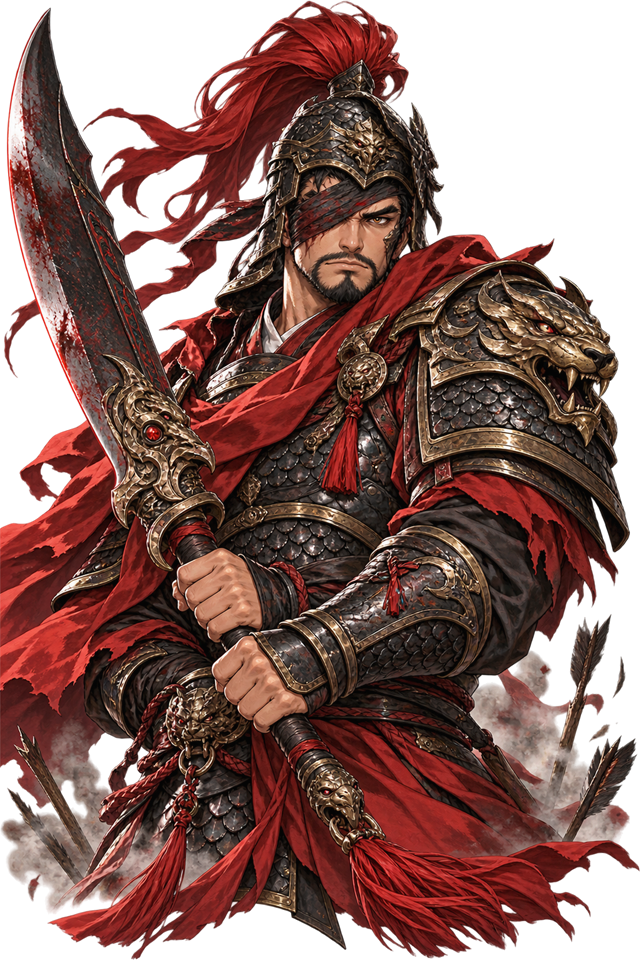
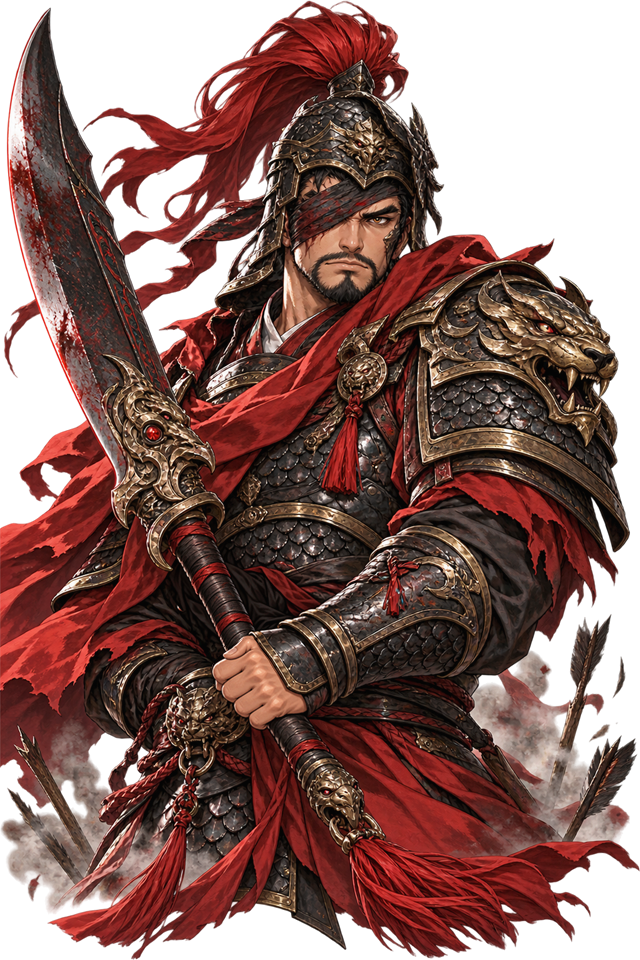
封神·入魔换上图标；夏侯惇立绘改成单手握刀（玩家反映画了两只左手）（TapTap V-20261030）
- 22 个图标：封神、入魔各 9 级，两条线的徽记，魔血、神魂两种货币；九级每行用图标、等级写在右下角，徽记放在栏目标题旁和「9 级以后」那一行，货币图标放在数量前
- 没有图时印章按两条线分色（封神金、入魔血红偏紫），下一级的高亮框也跟着变色
- 拿到魔血、神魂的提示带货币图标
- 图标走第二批加载，开着封神·入魔页时下到了就换上
- 夏侯惇立绘只改了手的那一块，脸的裁切位置不变
- 美术提示词第二十四批（封神入魔图标、夏侯惇立绘重画）

Changed region(s): [[0.25, 0.5625, 0.5, 0.7812]]

diff --git a/art-prompts.html b/art-prompts.html
@@ -76,7 +76,7 @@ button:focus-visible, input:focus-visible { outline: 2px solid var(--gold); outl
 <div class="wrap">
   <header>
     <h1>布衣三国 · <em>美术提示词</em></h1>
-    <p class="lede">一共 389 张图：7 张武将立绘、3 张出身立绘、35 个图标、14 个战场小人，第二批 18 张（精英立绘和小人、随从、据点建筑、铁蒺藜），第三批 8 张（武将大招特写、吕布骑赤兔），第四批 39 张（黄巾之乱、官渡、赤壁的 6 位新武将和黄巾兵），第五批 11 张（白龙、青龙龙首，白龙驹，8 个新物品图标），第六批 9 种招式特效贴图（拼在一张图里），第七批 13 件神兵（拼在一张图里），第八批 12 张拼图（9 件军需装备各 9 个形态的图标、3 个出身各 9 种换装小人），第九批 4 张拼图（貂蝉、甄姬、孙尚香三位女将的立绘、小人、神兵、特写和 9 个图标），第十批 4 张拼图（冰火雷风四种属性的图标、属性箭、属性弹、命中爆光），第十二批 1 张赤兔马，第十三批 5 张拼图（董卓、大乔、小乔的立绘、小人、神兵、特写，9 个图标和乔府），第十四批 5 张拼图（马超、郭嘉的立绘、小人、神兵、特写，6 个图标和西凉营地），第十五批 6 张图（司马懿的立绘、小人、神兵、特写，冢中死士，4 个图标，幽冥属性特效，孤冢和疑冢），第十六批 4 张图（夏侯惇的立绘、小人、神兵、特写和 3 个图标），第十七批 5 张图（华佗的立绘、小人、神兵、特写，3 个图标，药庐和药鼎），第十八批 8 张图（魔吕布、魔貂蝉的立绘、小人、神兵，3 张组合大招特写，3 个图标，炼狱虎牢关），第十九批 38 张 TapTap 成就图标（37 条成就加 1 条白金，上传到 TapTap 成就后台），第二十批 17 张素材拼成 9 张图（神赵云、黄忠的立绘、小人、神赵云骑白马、两件神兵、两张特写，6 个图标，神赵云的龙首，枪魂冢），第二十三批 47 张素材拼成 11 张图（曹操的立绘、小人、特写、神兵、3 个图标；才女的出身立绘、小人、3 个图标、27 个装备图标、9 个换装小人）；另外第十一批是声音：7 首背景音乐和 187 句名将配音。每条提示词已经带上统一的画风设定，点「复制」就能直接发给 ChatGPT。画好的图按文件名放进 G 盘的 <code>G:\布衣三国\assets</code> 文件夹，游戏会自动换上，没画的继续用现在的占位图。</p>
+    <p class="lede">一共 411 张图：7 张武将立绘、3 张出身立绘、35 个图标、14 个战场小人，第二批 18 张（精英立绘和小人、随从、据点建筑、铁蒺藜），第三批 8 张（武将大招特写、吕布骑赤兔），第四批 39 张（黄巾之乱、官渡、赤壁的 6 位新武将和黄巾兵），第五批 11 张（白龙、青龙龙首，白龙驹，8 个新物品图标），第六批 9 种招式特效贴图（拼在一张图里），第七批 13 件神兵（拼在一张图里），第八批 12 张拼图（9 件军需装备各 9 个形态的图标、3 个出身各 9 种换装小人），第九批 4 张拼图（貂蝉、甄姬、孙尚香三位女将的立绘、小人、神兵、特写和 9 个图标），第十批 4 张拼图（冰火雷风四种属性的图标、属性箭、属性弹、命中爆光），第十二批 1 张赤兔马，第十三批 5 张拼图（董卓、大乔、小乔的立绘、小人、神兵、特写，9 个图标和乔府），第十四批 5 张拼图（马超、郭嘉的立绘、小人、神兵、特写，6 个图标和西凉营地），第十五批 6 张图（司马懿的立绘、小人、神兵、特写，冢中死士，4 个图标，幽冥属性特效，孤冢和疑冢），第十六批 4 张图（夏侯惇的立绘、小人、神兵、特写和 3 个图标），第十七批 5 张图（华佗的立绘、小人、神兵、特写，3 个图标，药庐和药鼎），第十八批 8 张图（魔吕布、魔貂蝉的立绘、小人、神兵，3 张组合大招特写，3 个图标，炼狱虎牢关），第十九批 38 张 TapTap 成就图标（37 条成就加 1 条白金，上传到 TapTap 成就后台），第二十批 17 张素材拼成 9 张图（神赵云、黄忠的立绘、小人、神赵云骑白马、两件神兵、两张特写，6 个图标，神赵云的龙首，枪魂冢），第二十三批 47 张素材拼成 11 张图（曹操的立绘、小人、特写、神兵、3 个图标；才女的出身立绘、小人、3 个图标、27 个装备图标、9 个换装小人），第二十四批 22 个图标拼成 3 张图（封神、入魔各 9 级的图标，两条线的徽记，魔血、神魂两种货币），另外重画 1 张夏侯惇立绘（两只手画成了左手）；另外第十一批是声音：7 首背景音乐和 187 句名将配音。每条提示词已经带上统一的画风设定，点「复制」就能直接发给 ChatGPT。画好的图按文件名放进 G 盘的 <code>G:\布衣三国\assets</code> 文件夹，游戏会自动换上，没画的继续用现在的占位图。</p>
     <div class="progress"><span>已完成 <span id="count">0 / 45</span></span><div class="bar"><i id="bar"></i></div></div>
   </header>
 
@@ -184,6 +184,27 @@ button:focus-visible, input:focus-visible { outline: 2px solid var(--gold); outl
           <button class="copy" data-lite="3">④ 图标图集：兵器 + 宝物</button>
           <button class="copy" data-lite="4">⑤ 图标图集：技能 + 宝物</button>
         </div>
+      </div>
+    </div>
+  </section>
+
+  <section>
+    <h2>第二十四批新增<span class="folder">封神 · 入魔图标 · 夏侯惇立绘重画</span></h2>
+    <p class="section-note">标题页「封神 · 入魔」页面用的图标。<b>封神</b>是借神力降魔：用魔将掉的<b>魔血</b>升级，只对魔将（魔吕布、魔貂蝉）生效，整套金白色的神光；<b>入魔</b>是借魔力弑神：用神将掉的<b>神魂</b>升级，只对神将（神赵云）生效，整套血红配黑紫的魔焰。两条线的词条一样，各 9 级，每级一个图标（3 × 3 拼图，和第八批军需装备同一种做法）；另外 4 个是两条线的徽记和魔血、神魂两种货币。共 22 个图标，拼成 3 张图。另外<b>重画夏侯惇的立绘</b>：玩家在评论里指出他握刀的两只手都画成了左手，只改两只手，其余保持原样。</p>
+    <div class="list">
+      <div class="anchor">
+        <h3>一次复制全部 3 张</h3>
+        <p>三张都是图标，底板和之前的图标完全一样。画好后打包发给 Claude，由 Claude 切开放进 <code>G:\布衣三国\assets\icons</code>。</p>
+        <button class="copy primary" id="copy-batch24">复制第二十四批 3 张</button>
+      </div>
+      <div class="anchor">
+        <h3>也可以一张一张复制</h3>
+        <div id="b24-buttons" style="display:flex;gap:8px;flex-wrap:wrap"></div>
+      </div>
+      <div class="anchor">
+        <h3>重画：夏侯惇立绘（两只左手）</h3>
+        <p>这张单独发：先把原图 <code>G:\布衣三国\assets\portraits\xiahoudun.png</code> 拖进 GPT，再粘贴提示词。画好发给 Claude，替换原图。</p>
+        <button class="copy primary" id="copy-redo24">复制夏侯惇立绘重画</button>
       </div>
     </div>
   </section>
@@ -1434,7 +1455,54 @@ const GROUPS = [
       ['shicai', '诗才（宝物）', '一卷展开的诗笺压着一支毛笔，笔尖落下的墨迹化作几点金色的光（诗笺上看不清字）。'],
     ],
   },
-
+  // —— 第二十四批：封神 · 入魔（标题页的局外成长页面，id 和 data.js 里 campUp.lines 的 id、cur 一致）。封神 = 借神力降魔，金白神光；入魔 = 借魔力弑神，血红黑紫魔焰。两条线词条一样，每级一个图标 ——
+  {
+    title: '第二十四批 · 封神九级', folder: 'assets/icons/', style: ICON_STYLE,
+    note: '封神：借神力降魔，只对魔将生效。整套主色金色和白色，带神圣的金光；画面里被克制的一方是暗红黑色的魔气、魔焰、魔盾。',
+    items: [
+      ['camp_feng_1', '第 1 级 · 伤害 +15%', '一柄朴素的降魔剑斜放，剑身泛着淡淡的金光，剑柄缠着白布。'],
+      ['camp_feng_2', '第 2 级 · 破护：对护盾伤害 ×1.3', '金色的剑尖刺进一面暗红黑色的魔气护盾，护盾上裂开几道透出金光的裂纹。'],
+      ['camp_feng_3', '第 3 级 · 每秒扣其最大血量 0.3%', '一张黄纸朱砂的镇魔符（符文看不清具体的字）贴在一团暗红色的魔气上，魔气从边缘被金色的火一点点烧散。'],
+      ['camp_feng_4', '第 4 级 · 受其伤害 -10%', '一面金色的八卦护心镜挡在前面，镜面放出金光，把一道扑来的暗红魔焰挡开。'],
+      ['camp_feng_5', '第 5 级 · 伤害 +30%', '一根金色的打神鞭（一节一节的四棱鞭身），缠着金色的电光，比第 1 级的剑气势更盛。'],
+      ['camp_feng_6', '第 6 级 · 禁疗', '几道刻着符印的金色锁链紧紧缠住一颗暗红色、冒着黑气的魔心，魔心的光被压得黯淡。'],
+      ['camp_feng_7', '第 7 级 · 每秒扣其最大血量 0.6%', '一卷展开的金色封神榜（卷面看不清字）悬在空中，洒下一道金色光柱，下面的暗红魔气被烧得四散。'],
+      ['camp_feng_8', '第 8 级 · 破护 ×1.6、受其伤害 -20%', '一杆金色的天戟击碎一面暗红黑色的魔盾，碎片四溅；天戟周围罩着一层半透明的金色光罩。'],
+      ['camp_feng_9', '第 9 级 · 伤害 +50%、扣血、禁疗', '一柄华丽的斩魔神剑，剑身金光万丈，背后一圈金色的神环光轮和几朵祥云，剑下踩碎一团暗红魔焰；整套里最华丽的一个。'],
+    ],
+  },
+  {
+    title: '第二十四批 · 入魔九级', folder: 'assets/icons/', style: ICON_STYLE,
+    note: '入魔：借魔力弑神，只对神将生效。整套主色血红和黑紫，带翻腾的魔焰；画面里被克制的一方是银白泛冰蓝的神光、圣盾、光羽。',
+    items: [
+      ['camp_ru_1', '第 1 级 · 伤害 +15%', '一柄暗红色的弯刃血刀斜放，刃口泛着淡淡的血光，刀柄缠着黑布。'],
+      ['camp_ru_2', '第 2 级 · 破护：对护盾伤害 ×1.3', '一只黑紫色的魔爪撕开一面银白泛冰蓝的圣光护盾，护盾上裂开几道透出血光的裂纹。'],
+      ['camp_ru_3', '第 3 级 · 每秒扣其最大血量 0.3%', '一团黑紫色的魔焰缠住一片银白发光的羽毛，羽毛从边缘被一点点烧黑。'],
+      ['camp_ru_4', '第 4 级 · 受其伤害 -10%', '一面黑铁打造、刻着暗红魔纹的獠牙盾牌，挡开一道刺来的银蓝色光枪。'],
+      ['camp_ru_5', '第 5 级 · 伤害 +30%', '一杆血红色的魔戟，缠着翻腾的黑紫魔焰，比第 1 级的血刀气势更盛。'],
+      ['camp_ru_6', '第 6 级 · 禁疗', '几道带倒刺的黑色荆棘锁链紧紧缠住一颗银白发光的神魂玉珠，玉珠的光被压得黯淡。'],
+      ['camp_ru_7', '第 7 级 · 每秒扣其最大血量 0.6%', '一只悬在血月前的赤红魔眼，射下一道血红的光，下面的银白神光被灼得四散。'],
+      ['camp_ru_8', '第 8 级 · 破护 ×1.6、受其伤害 -20%', '一只巨大的黑紫魔爪捏碎一面银白的圣盾，碎片四溅；魔爪周围裹着一层翻腾的黑紫魔气。'],
+      ['camp_ru_9', '第 9 级 · 伤害 +50%、扣血、禁疗', '一柄华丽的弑神魔刀，刀身血光冲天，背后一轮血月和一对展开的黑色魔翼，刀下踩碎一片银白的光羽；整套里最华丽的一个。'],
+    ],
+  },
+  {
+    title: '第二十四批 · 徽记和货币', folder: 'assets/icons/', style: ICON_STYLE,
+    note: '两条线的徽记（显示在两栏的标题旁和 9 级以后那一行）和两种货币（魔血是魔将掉的，用来升封神；神魂是神将掉的，用来升入魔）。徽记要比九级图标更像一枚标志；货币要像一件能收集的小东西。',
+    items: [
+      ['camp_feng', '封神（徽记）', '一卷金色的封神榜卷轴和一柄降魔剑交叉，背后一圈金色的神环光轮，整体金白色、神圣庄严（卷面看不清字）。'],
+      ['camp_ru', '入魔（徽记）', '一柄血色魔刀和一只黑紫魔爪交叉，背后一轮血月和翻腾的黑紫魔焰，整体血红黑紫、邪异凌厉。'],
+      ['moxue', '魔血（货币）', '一滴凝成晶石的暗红色魔血，晶体半透明，里面有黑紫色的雾气在流动，周围飘着几点血光。'],
+      ['shenhun', '神魂（货币）', '一团银白泛冰蓝的魂火，悬在一枚小小的白玉托上，火焰里有光点流转，周围飘着几点银光。'],
+    ],
+  },
+  {
+    title: '第二十四批 · 重画立绘', folder: 'assets/portraits/', style: PORTRAIT_STYLE,
+    note: '玩家在评论里指出：夏侯惇双手握刀，两只手却都画成了左手。在原图上只改两只手，其余保持原样（图鉴、登场、头像都用这张，构图一动，脸的裁切位置就会偏）。',
+    items: [
+      ['xiahoudun', '夏侯惇（重画两只手）', '在原图的基础上只重画握刀的两只手：画面左边伸过来的是他的右臂，所以上面那只是右手；画面右边戴粗护臂的是他的左臂，下面那只是左手。两只手一上一下握住同一根刀柄，拇指方向互为镜像，各五根手指，指节自然地扣住刀柄，不要多指、少指或手指粘连；手的大小、肤色、光影和原图一致。'],
+    ],
+  },
 ];
 
 // —— 第八批：军需装备（和 data.js 里 meta.gear 的名字一致） ——
@@ -1851,6 +1919,26 @@ document.getElementById('copy-batch23').addEventListener('click', e => copyText(
   B23.map(([t, f], i) => `========== 第 ${i + 1} 张：${t} ==========\n${f()}`).join('\n\n'), e.currentTarget));
 document.getElementById('b23-buttons').innerHTML = B23.map(([t], i) => `<button class="copy" data-b23="${i}">${i + 1}. ${t}</button>`).join('');
 document.querySelectorAll('[data-b23]').forEach(b => b.addEventListener('click', () => copyText(B23[+b.dataset.b23][1](), b)));
+// 第二十四批：3 张图标拼图（封神 9 级、入魔 9 级各一张 3 × 3；徽记和货币一张 2 × 2）
+const G24 = title => GROUPS.find(g => g.title === '第二十四批 · ' + title);
+const CAMP_TIER = '同一条线逐级升级，九个图标要一眼看得出是同一系列：第一行 1–3 级器物朴素、光芒较弱；第二行 4–6 级更精致、光更亮；第三行 7–9 级最华丽，光晕最盛。';
+const campSheet24 = (title, what) => () => { const g = G24(title); return `我要为一款三国题材的游戏画一张图标图集：${what}。统一画风：\n${ICON_STYLE}\n${SKILL_EXTRA}\n\n${g.note}\n\n` +
+  `请把 9 个图标画在同一张正方形图里，排成 3 列 × 3 行的整齐网格，每格大小完全相同、间距一致，每个图标都带同样的底板。${CAMP_TIER}按序号从左到右、从上到下排列。图集背景透明，画面里不要任何文字、数字或序号。\n\n` + listOf(g.items); };
+const B24 = [
+  ['封神 9 级', campSheet24('封神九级', '「封神」九个等级的图标')],
+  ['入魔 9 级', campSheet24('入魔九级', '「入魔」九个等级的图标')],
+  ['徽记和货币 4 个', () => { const g = G24('徽记和货币'); return `我要为一款三国题材的游戏画一张图标图集。统一画风：\n${ICON_STYLE}\n\n${g.note}\n\n` +
+    `请把下面 4 个图标画在同一张正方形图里，排成 2 列 × 2 行，每个图标大小完全相同、间距一致，每个都带同样的底板。按序号从左到右、从上到下排列。图集背景透明，画面里不要任何文字或序号。\n\n` + listOf(g.items); }],
+];
+document.getElementById('copy-batch24').addEventListener('click', e => copyText(
+  `我要为一款三国题材的游戏画 3 张图标图集（「封神」九级图标、「入魔」九级图标、两条线的徽记和两种货币，共 22 个图标）。请按序号逐张生成，每次只画一张，画完告诉我序号，等我回复“继续”再画下一张。三张都是同一套二次元美术风格、同样的图标底板；封神这一套是金白色的神光（被克制的是暗红黑色的魔气），入魔这一套是血红配黑紫的魔焰（被克制的是银白泛冰蓝的神光），两套要一眼分得开。\n\n` +
+  B24.map(([t, f], i) => `========== 第 ${i + 1} 张：${t} ==========\n${f()}`).join('\n\n'), e.currentTarget));
+document.getElementById('b24-buttons').innerHTML = B24.map(([t], i) => `<button class="copy" data-b24="${i}">${i + 1}. ${t}</button>`).join('');
+document.querySelectorAll('[data-b24]').forEach(b => b.addEventListener('click', () => copyText(B24[+b.dataset.b24][1](), b)));
+// 重画夏侯惇立绘：附原图，只改两只手
+const REDO24 = () => { const g = G24('重画立绘'), it = g.items[0]; return `我要修一张游戏角色立绘，附上的是原图（夏侯惇）。${g.note}\n\n` +
+  `请在原图上修改，其余全部保持原样：构图、长相、缠眼的布带、头盔、盔甲、大刀、配色、背景和画风都不要改，画面大小和比例不变，人物的位置也不要挪。\n\n要改的地方：${it[2]}\n\n统一画风：\n${g.style}\n\n文件名：${it[0]}.png`; };
+document.getElementById('copy-redo24').addEventListener('click', e => copyText(REDO24(), e.currentTarget));
 // 第十一批：背景音乐与名将配音（台词和 data.js 里的 voice / line / rage 一致）
 const MUSIC_STYLE = '纯器乐，不要人声唱词（最多一点很轻的无词吟唱）；中国古风配器：古筝、琵琶、竹笛、二胡、编钟、大鼓和锣，可以加一点低沉的弦乐铺底；混音干净，低频不要轰头，适合在游戏里长时间循环；时长 1.5–2 分钟，开头和结尾能无缝衔接循环，不要渐弱收尾；导出 MP3。';
 const MUSIC11 = [

diff --git a/game.js b/game.js
@@ -6858,6 +6858,7 @@ function toast(kind, id, title, sub) {
   let face = '';
   if (kind === 'elite') face = window.Portrait.html('elite', id, { crop: true });
   else if (kind === 'building') face = `<span class="tico">${D.buildings[id].icon}</span>`;
+  else if (kind === 'icon') face = `<span class="tico">${window.Assets.icon(id, title.slice(0, 1), '')}</span>`; // 物品图标（没有图时用标题的第一个字）
   $('toast-face').innerHTML = face;
   $('toast-face').hidden = !face;
   $('toast-title').textContent = title;
@@ -7142,7 +7143,7 @@ function campGain(camp, n) {
   if (n <= 0) return;
   const line = campLine(camp), m = loadMeta();
   m[line.cur] = (m[line.cur] || 0) + n; m._dirty = true; saveMeta(true);
-  toast('', '', `${line.curName} +${n}`, `在标题页「封神 · 入魔」里升级${line.name}`);
+  toast('icon', line.cur, `${line.curName} +${n}`, `在标题页「封神 · 入魔」里升级${line.name}`);
 }
 // 一局结束时神魔将还没倒下：按这一轮打掉的血量比例给 0 ~ lose 份
 function campRunEnd() {
@@ -7160,17 +7161,20 @@ function openCamp() {
   $('btn-camp-close').focus();
 }
 function closeCamp() { $('camp').hidden = true; $('title').hidden = false; refreshTitle(); renderOrigins(); }
+// 封神 · 入魔的图标（第二十四批）：有图就用图，等级写在右下角；没有图就用字
+const campImg = (id, cls) => { const img = window.Assets.get('icon:' + id); return img ? `<img class="${cls}" src="${img.src}" alt="">` : ''; };
+const campSeal = (id, ch) => { const img = campImg(id, 'ico'); return `<div class="seal">${img ? img + `<i>${ch}</i>` : ch}</div>`; };
 function renderCamp() {
   const m = loadMeta();
   $('camp-sub').textContent = `金币 ${m.gold} · 只对神魔将生效，普通名将不受影响 · 打赢一轮掉 ${CU.win} 份，没打完按打掉的血量给 0 ~ ${CU.lose} 份`;
   $('camp-list').innerHTML = CU.lines.map(L => {
     const lv = campLv(L.id), have = m[L.cur] || 0, cost = campCost(lv);
-    const rows = CU.levels.map((x, i) => `<div class="gear camp-row${i < lv ? ' r3' : ''}${i === lv ? ' next' : ''}"><div class="seal">${i + 1}</div>` +
+    const rows = CU.levels.map((x, i) => `<div class="gear camp-row${i < lv ? ' r3' : ''}${i === lv ? ' next' : ''}">${campSeal(`camp_${L.id}_${i + 1}`, i + 1)}` +
       `<div class="gn">${x.text}<small>${i < lv ? '已领悟' : `第 ${i + 1} 级 · ${L.curName} ${CU.cost[i]}`}</small></div></div>`).join('');
-    const late = `<div class="gear camp-row${lv > CU.levels.length ? ' r3' : ''}"><div class="seal">∞</div><div class="gn">${CU.levels.length} 级以后每级伤害再 +${Math.round(CU.late.dmg * 100)}%` +
+    const late = `<div class="gear camp-row${lv > CU.levels.length ? ' r3' : ''}">${campSeal(`camp_${L.id}`, '∞')}<div class="gn">${CU.levels.length} 级以后每级伤害再 +${Math.round(CU.late.dmg * 100)}%` +
       `<small>${lv > CU.levels.length ? `现在额外 +${Math.round((lv - CU.levels.length) * CU.late.dmg * 100)}%` : '没有尽头'}</small></div></div>`;
-    return `<div class="shop-col"><h3>${L.name}<small>对${L.vs} · ${L.who}</small></h3>
-      <div class="camp-cur">${L.curName} <b>${have}</b> · ${L.name} ${lv} 级</div>
+    return `<div class="shop-col camp-${L.id}"><h3>${campImg(`camp_${L.id}`, 'camp-emb')}${L.name}<small>对${L.vs} · ${L.who}</small></h3>
+      <div class="camp-cur">${campImg(L.cur, 'camp-coin')}${L.curName} <b>${have}</b> · ${L.name} ${lv} 级</div>
       <div class="camp-btns"><button class="buy" data-up="${L.id}" ${have < cost ? 'disabled' : ''}>升到 ${lv + 1} 级 · ${L.curName} ${cost}</button>` +
       `<button class="buy alt" data-x="${L.id}" ${m.gold < CU.gold ? 'disabled' : ''}>金 ${CU.gold} 换 1 ${L.curName}</button></div>${rows}${late}</div>`;
   }).join('');
@@ -7489,6 +7493,7 @@ window.Assets.onLoad(() => {
     if (S) { S.buildDirty = true; S.faceGid = null; }
     if (!$('codex').hidden) openCodex();
     if (!$('shop').hidden) renderShop(); // 军需图标是第二批下的：开着军需页时下到了就换上
+    if (!$('camp').hidden) renderCamp(); // 封神 · 入魔的图标也是
   }, 50);
 });
 

diff --git a/index.html b/index.html
@@ -157,8 +157,19 @@ img.ico.sb { object-fit: contain; background: radial-gradient(circle, #3a2a10, #
 .camp-btns .buy { padding: 8px 12px; font: inherit; font-size: 13px; font-weight: 700; border: 0; border-radius: 2px; background: var(--seal); color: var(--paper); cursor: pointer; }
 .camp-btns .buy.alt { background: #6b5a3a; }
 .camp-btns .buy:disabled { background: #9a8f78; cursor: default; }
-.gear.camp-row { grid-template-columns: 34px minmax(0, 1fr); padding: 6px 8px; opacity: .6; }
-.gear.camp-row .seal { width: 34px; height: 34px; font-size: 16px; grid-row: auto; }
+.gear.camp-row { grid-template-columns: 40px minmax(0, 1fr); padding: 6px 8px; opacity: .6; }
+.gear.camp-row .seal { position: relative; width: 40px; height: 40px; font-size: 17px; grid-row: auto; }
+.gear.camp-row .seal i { position: absolute; right: 0; bottom: 0; font-style: normal; font-size: 10px; font-weight: 700; line-height: 1;
+  background: rgba(16,13,9,.82); color: var(--gold); padding: 2px 3px; border-top-left-radius: 3px; } /* 有图标时的等级 */
+/* 两条线各一种颜色：封神金白、入魔血红黑紫（没有图标时印章也分得开） */
+.camp-feng .seal { background: #a8802c; }
+.camp-ru .seal { background: #5e1f3f; }
+.camp-feng h3 { color: #ffe3a0; }
+.camp-ru h3 { color: #ffb0c0; }
+.camp-feng .gear.camp-row.next { outline-color: #e2b24a; }
+.camp-ru .gear.camp-row.next { outline-color: #b8324f; }
+.camp-emb { width: 36px; height: 36px; align-self: center; border-radius: 4px; flex: none; }
+.camp-coin { width: 22px; height: 22px; vertical-align: -6px; margin-right: 5px; border-radius: 3px; }
 .gear.camp-row .gn { white-space: normal; font-size: 13px; }
 .gear.camp-row.r3 { opacity: 1; }
 .gear.camp-row.next { opacity: 1; outline: 2px solid var(--seal); }

diff --git a/assets.js b/assets.js
@@ -99,6 +99,9 @@ window.Assets = (() => {
     }
     for (const c of (D.twin && D.twin.combos) || []) load('cutin:combo_' + c.id, `${ASSET_BASE}cutins/combo_${c.id}${IMG}`, true); // 魔吕布、魔貂蝉的组合大招特写
     for (const o in (D.meta && D.meta.gear) || {}) for (const g of D.meta.gear[o]) for (let lv = 1; lv <= 9; lv++) load(`icon:${g.id}_${lv}`, `${ASSET_BASE}icons/${g.id}_${lv}${IMG}`, true); // 军需图标
+    for (const L of (D.campUp && D.campUp.lines) || []) { // 封神 · 入魔：徽记 icons/camp_<线>.png、9 级图标 icons/camp_<线>_<级>.png、货币 icons/<魔血 / 神魂>.png
+      for (const id of [`camp_${L.id}`, L.cur, ...D.campUp.levels.map((x, i) => `camp_${L.id}_${i + 1}`)]) load('icon:' + id, `${ASSET_BASE}icons/${id}${IMG}`, true);
+    }
   }
 
   const esc = s => String(s).replace(/"/g, '&quot;');
